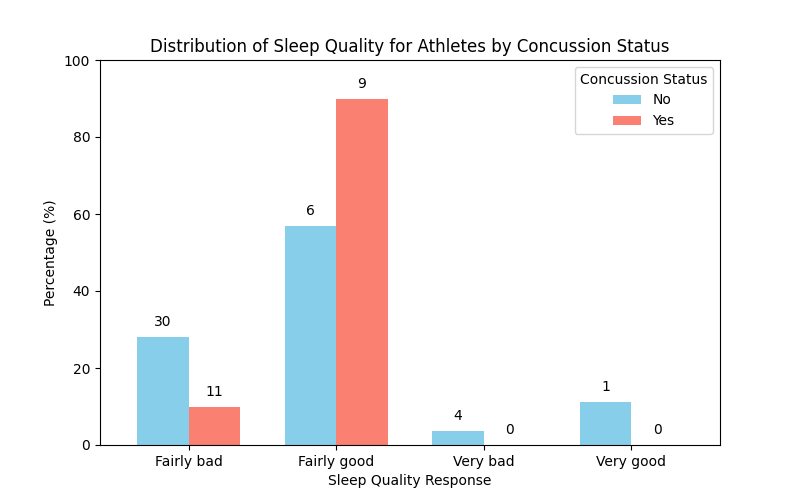
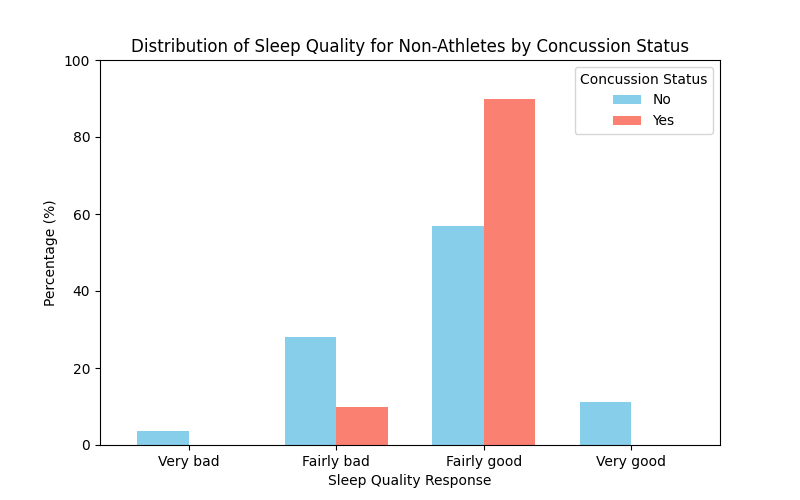
Updated preliminary visualizations for the paper

diff --git a/Visualizer.py b/Visualizer.py
@@ -157,35 +157,29 @@ def plot_avg_sleep_by_concussion_status(df):
 
 def plot_concentration_issues_general(df):
     """Plots percentage of concentration issues by concussion status with count labels."""
+    # Create a copy of the dataframe to avoid modifying the original
+    df_plot = df.copy()
+    
+    # Define the desired order
+    desired_order = ["Almost never", "Sometimes", "Often", "Always"]
+    
+    # Convert the Concentration_Issues column to a Categorical type with the specific order
+    df_plot['Concentration_Issues'] = pd.Categorical(
+        df_plot['Concentration_Issues'], 
+        categories=desired_order, 
+        ordered=True
+    )
+    
     # Compute actual counts
-    count_data = pd.crosstab(df['Concentration_Issues'], df['Concussion_Status'])
+    count_data = pd.crosstab(df_plot['Concentration_Issues'], df_plot['Concussion_Status'])
 
     # Ensure column order is No → Yes
     count_data = count_data[['No', 'Yes']]
 
-    # Compute the total number of respondents for No and Yes concussion groups
-    total_no = count_data['No'].sum()
-    total_yes = count_data['Yes'].sum()
-
     # Normalize to get percentages
     concentration_percentage = count_data.div(count_data.sum(axis=0), axis=1) * 100
 
-    ax = concentration_percentage.plot(kind='bar', figsize=(8, 5), color=['skyblue', 'salmon'], width=0.7)
-
-    # Adding actual raw count labels (calculated from percentages)
-    for i, p in enumerate(ax.patches):
-        col_idx = i % 2  # Alternates between No and Yes
-        row_idx = i // 2  # Each category (Concentration Issues)
-
-        # Determine the correct total population for this bar (No or Yes)
-        total_population = total_no if col_idx == 0 else total_yes
-
-        # Convert percentage to actual count
-        count_value = round((p.get_height() / 100) * total_population)
-
-        # Display the count
-        ax.annotate(f"{count_value}", (p.get_x() + p.get_width() / 2, p.get_height() + 2),
-                    ha='center', va='bottom', fontsize=10)
+    concentration_percentage.plot(kind='bar', figsize=(8, 5), color=['skyblue', 'salmon'], width=0.7)
 
     plt.title("Percentage of Concentration Issues by Concussion Status")
     plt.xlabel("Concentration Issues Response")
@@ -199,7 +193,20 @@ def plot_concentration_issues_general(df):
 
 def plot_concentration_issues_for_athletes(df):
     """Plots concentration issue percentages for athletes only, comparing those with and without a concussion."""
-    athletes_df = df[df['Sports_Status'].str.lower() == 'yes']
+    # Create a copy of the dataframe to avoid modifying the original
+    df_plot = df.copy()
+    
+    # Define the desired order
+    desired_order = ["Almost never", "Sometimes", "Often", "Always"]
+    
+    # Convert the Concentration_Issues column to a Categorical type with the specific order
+    df_plot['Concentration_Issues'] = pd.Categorical(
+        df_plot['Concentration_Issues'], 
+        categories=desired_order, 
+        ordered=True
+    )
+    
+    athletes_df = df_plot[df_plot['Sports_Status'].str.lower() == 'yes']
 
     # Compute actual counts
     count_data = pd.crosstab(athletes_df['Concentration_Issues'], athletes_df['Concussion_Status'])
@@ -207,29 +214,10 @@ def plot_concentration_issues_for_athletes(df):
     # Ensure column order is No → Yes
     count_data = count_data[['No', 'Yes']]
 
-    # Compute the total number of athletes for No and Yes concussion groups
-    total_no = count_data['No'].sum()
-    total_yes = count_data['Yes'].sum()
-
     # Normalize to get percentages
     concentration_percentage = count_data.div(count_data.sum(axis=0), axis=1) * 100
 
-    ax = concentration_percentage.plot(kind='bar', figsize=(8, 5), color=['skyblue', 'salmon'], width=0.7)
-
-    # Adding actual raw count labels (calculated from percentages)
-    for i, p in enumerate(ax.patches):
-        col_idx = i % 2  # Alternates between No and Yes
-        row_idx = i // 2  # Each category (Concentration Issues)
-
-        # Determine the correct total population for this bar (No or Yes)
-        total_population = total_no if col_idx == 0 else total_yes
-
-        # Convert percentage to actual count
-        count_value = round((p.get_height() / 100) * total_population)
-
-        # Display the count
-        ax.annotate(f"{count_value}", (p.get_x() + p.get_width() / 2, p.get_height() + 2),
-                    ha='center', va='bottom', fontsize=10)
+    concentration_percentage.plot(kind='bar', figsize=(8, 5), color=['skyblue', 'salmon'], width=0.7)
 
     plt.title("Concentration Issues for Athletes by Concussion Status")
     plt.xlabel("Concentration Issues Response")
@@ -243,7 +231,20 @@ def plot_concentration_issues_for_athletes(df):
 
 def plot_concentration_issues_for_non_athletes(df):
     """Plots concentration issue percentages for non-athletes only, comparing those with and without a concussion."""
-    non_athletes_df = df[df['Sports_Status'].str.lower() == 'no']
+    # Create a copy of the dataframe to avoid modifying the original
+    df_plot = df.copy()
+    
+    # Define the desired order
+    desired_order = ["Almost never", "Sometimes", "Often", "Always"]
+    
+    # Convert the Concentration_Issues column to a Categorical type with the specific order
+    df_plot['Concentration_Issues'] = pd.Categorical(
+        df_plot['Concentration_Issues'], 
+        categories=desired_order, 
+        ordered=True
+    )
+    
+    non_athletes_df = df_plot[df_plot['Sports_Status'].str.lower() == 'no']
 
     # Compute actual counts
     count_data = pd.crosstab(non_athletes_df['Concentration_Issues'], non_athletes_df['Concussion_Status'])
@@ -251,29 +252,10 @@ def plot_concentration_issues_for_non_athletes(df):
     # Ensure column order is No → Yes
     count_data = count_data[['No', 'Yes']]
 
-    # Compute the total number of non-athletes for No and Yes concussion groups
-    total_no = count_data['No'].sum()
-    total_yes = count_data['Yes'].sum()
-
     # Normalize to get percentages
     concentration_percentage = count_data.div(count_data.sum(axis=0), axis=1) * 100
 
-    ax = concentration_percentage.plot(kind='bar', figsize=(8, 5), color=['skyblue', 'salmon'], width=0.7)
-
-    # Adding actual raw count labels (calculated from percentages)
-    for i, p in enumerate(ax.patches):
-        col_idx = i % 2  # Alternates between No and Yes
-        row_idx = i // 2  # Each category (Concentration Issues)
-
-        # Determine the correct total population for this bar (No or Yes)
-        total_population = total_no if col_idx == 0 else total_yes
-
-        # Convert percentage to actual count
-        count_value = round((p.get_height() / 100) * total_population)
-
-        # Display the count
-        ax.annotate(f"{count_value}", (p.get_x() + p.get_width() / 2, p.get_height() + 2),
-                    ha='center', va='bottom', fontsize=10)
+    concentration_percentage.plot(kind='bar', figsize=(8, 5), color=['skyblue', 'salmon'], width=0.7)
 
     plt.title("Concentration Issues for Non-Athletes by Concussion Status")
     plt.xlabel("Concentration Issues Response")
@@ -293,19 +275,7 @@ def plot_motivation_issues_general(df):
     # Normalize to get percentages
     motivation_percentage = count_data.div(count_data.sum(axis=0), axis=1) * 100
     
-    ax = motivation_percentage.plot(kind='bar', figsize=(10, 5), color=['skyblue', 'salmon'], width=0.7)
-    
-    # Adding actual raw count labels
-    total_no = count_data['No'].sum()
-    total_yes = count_data['Yes'].sum()
-    
-    for i, p in enumerate(ax.patches):
-        col_idx = i % 2  # Alternates between No and Yes
-        row_idx = i // 2  # Each category (Motivation Issues)
-        total_population = total_no if col_idx == 0 else total_yes
-        count_value = round((p.get_height() / 100) * total_population)
-        ax.annotate(f"{count_value}", (p.get_x() + p.get_width() / 2, p.get_height() + 2),
-                    ha='center', va='bottom', fontsize=10)
+    motivation_percentage.plot(kind='bar', figsize=(10, 5), color=['skyblue', 'salmon'], width=0.7)
     
     plt.title("Distribution of Motivation Issues by Concussion Status")
     plt.xlabel("Motivation Issues Response")
@@ -327,19 +297,7 @@ def plot_motivation_issues_for_athletes(df):
     # Normalize to get percentages
     motivation_percentage = count_data.div(count_data.sum(axis=0), axis=1) * 100
     
-    ax = motivation_percentage.plot(kind='bar', figsize=(10, 5), color=['skyblue', 'salmon'], width=0.7)
-    
-    # Adding actual raw count labels
-    total_no = count_data['No'].sum()
-    total_yes = count_data['Yes'].sum()
-    
-    for i, p in enumerate(ax.patches):
-        col_idx = i % 2  # Alternates between No and Yes
-        row_idx = i // 2  # Each category (Motivation Issues)
-        total_population = total_no if col_idx == 0 else total_yes
-        count_value = round((p.get_height() / 100) * total_population)
-        ax.annotate(f"{count_value}", (p.get_x() + p.get_width() / 2, p.get_height() + 2),
-                    ha='center', va='bottom', fontsize=10)
+    motivation_percentage.plot(kind='bar', figsize=(10, 5), color=['skyblue', 'salmon'], width=0.7)
     
     plt.title("Distribution of Motivation Issues For Athletes by Concussion Status")
     plt.xlabel("Motivation Issues Response")
@@ -361,19 +319,7 @@ def plot_motivation_issues_for_non_athletes(df):
     # Normalize to get percentages
     motivation_percentage = count_data.div(count_data.sum(axis=0), axis=1) * 100
     
-    ax = motivation_percentage.plot(kind='bar', figsize=(10, 5), color=['skyblue', 'salmon'], width=0.7)
-    
-    # Adding actual raw count labels
-    total_no = count_data['No'].sum()
-    total_yes = count_data['Yes'].sum()
-    
-    for i, p in enumerate(ax.patches):
-        col_idx = i % 2  # Alternates between No and Yes
-        row_idx = i // 2  # Each category (Motivation Issues)
-        total_population = total_no if col_idx == 0 else total_yes
-        count_value = round((p.get_height() / 100) * total_population)
-        ax.annotate(f"{count_value}", (p.get_x() + p.get_width() / 2, p.get_height() + 2),
-                    ha='center', va='bottom', fontsize=10)
+    motivation_percentage.plot(kind='bar', figsize=(10, 5), color=['skyblue', 'salmon'], width=0.7)
     
     plt.title("Distribution of Motivation Issues for Non-Athletes by Concussion Status")
     plt.xlabel("Motivation Issues Response")
@@ -393,19 +339,7 @@ def plot_pain_issues_general(df):
     # Normalize to get percentages
     motivation_percentage = count_data.div(count_data.sum(axis=0), axis=1) * 100
     
-    ax = motivation_percentage.plot(kind='bar', figsize=(10, 5), color=['skyblue', 'salmon'], width=0.7)
-    
-    # Adding actual raw count labels
-    total_no = count_data['No'].sum()
-    total_yes = count_data['Yes'].sum()
-    
-    for i, p in enumerate(ax.patches):
-        col_idx = i % 2  # Alternates between No and Yes
-        row_idx = i // 2  # Each category (Motivation Issues)
-        total_population = total_no if col_idx == 0 else total_yes
-        count_value = round((p.get_height() / 100) * total_population)
-        ax.annotate(f"{count_value}", (p.get_x() + p.get_width() / 2, p.get_height() + 2),
-                    ha='center', va='bottom', fontsize=10)
+    motivation_percentage.plot(kind='bar', figsize=(10, 5), color=['skyblue', 'salmon'], width=0.7)
     
     plt.title("Distribution of Pain Issues by Concussion Status")
     plt.xlabel("Pain Issues Response")
@@ -427,19 +361,7 @@ def plot_pain_issues_for_athletes(df):
     # Normalize to get percentages
     motivation_percentage = count_data.div(count_data.sum(axis=0), axis=1) * 100
     
-    ax = motivation_percentage.plot(kind='bar', figsize=(10, 5), color=['skyblue', 'salmon'], width=0.7)
-    
-    # Adding actual raw count labels
-    total_no = count_data['No'].sum()
-    total_yes = count_data['Yes'].sum()
-    
-    for i, p in enumerate(ax.patches):
-        col_idx = i % 2  # Alternates between No and Yes
-        row_idx = i // 2  # Each category (Motivation Issues)
-        total_population = total_no if col_idx == 0 else total_yes
-        count_value = round((p.get_height() / 100) * total_population)
-        ax.annotate(f"{count_value}", (p.get_x() + p.get_width() / 2, p.get_height() + 2),
-                    ha='center', va='bottom', fontsize=10)
+    motivation_percentage.plot(kind='bar', figsize=(10, 5), color=['skyblue', 'salmon'], width=0.7)
     
     plt.title("Distribution of Pain Issues for Athletes by Concussion Status")
     plt.xlabel("Pain Issues Response")
@@ -461,19 +383,7 @@ def plot_pain_issues_for_non_athletes(df):
     # Normalize to get percentages
     motivation_percentage = count_data.div(count_data.sum(axis=0), axis=1) * 100
     
-    ax = motivation_percentage.plot(kind='bar', figsize=(10, 5), color=['skyblue', 'salmon'], width=0.7)
-    
-    # Adding actual raw count labels
-    total_no = count_data['No'].sum()
-    total_yes = count_data['Yes'].sum()
-    
-    for i, p in enumerate(ax.patches):
-        col_idx = i % 2  # Alternates between No and Yes
-        row_idx = i // 2  # Each category (Motivation Issues)
-        total_population = total_no if col_idx == 0 else total_yes
-        count_value = round((p.get_height() / 100) * total_population)
-        ax.annotate(f"{count_value}", (p.get_x() + p.get_width() / 2, p.get_height() + 2),
-                    ha='center', va='bottom', fontsize=10)
+    motivation_percentage.plot(kind='bar', figsize=(10, 5), color=['skyblue', 'salmon'], width=0.7)
     
     plt.title("Distribution of Pain Issues for Non-Athletes by Concussion Status")
     plt.xlabel("Pain Issues Response")
@@ -493,19 +403,18 @@ def plot_sleep_quality_general(df):
     # Normalize to get percentages
     motivation_percentage = count_data.div(count_data.sum(axis=0), axis=1) * 100
     
-    ax = motivation_percentage.plot(kind='bar', figsize=(8, 5), color=['skyblue', 'salmon'], width=0.7)
+    # Create a mapping for better labels
+    sleep_quality_labels = {
+        0.0: "Very bad", 
+        1.0: "Fairly bad", 
+        2.0: "Fairly good", 
+        3.0: "Very good"
+    }
     
-    # Adding actual raw count labels
-    total_no = count_data['No'].sum()
-    total_yes = count_data['Yes'].sum()
+    # Rename the index with descriptive labels
+    motivation_percentage.index = motivation_percentage.index.map(sleep_quality_labels)
     
-    for i, p in enumerate(ax.patches):
-        col_idx = i % 2  # Alternates between No and Yes
-        row_idx = i // 2  # Each category (Motivation Issues)
-        total_population = total_no if col_idx == 0 else total_yes
-        count_value = round((p.get_height() / 100) * total_population)
-        ax.annotate(f"{count_value}", (p.get_x() + p.get_width() / 2, p.get_height() + 2),
-                    ha='center', va='bottom', fontsize=10)
+    motivation_percentage.plot(kind='bar', figsize=(8, 5), color=['skyblue', 'salmon'], width=0.7)
     
     plt.title("Distribution of Sleep Quality by Concussion Status")
     plt.xlabel("Sleep Quality Response")
@@ -526,20 +435,19 @@ def plot_sleep_quality_for_athletes(df):
     
     # Normalize to get percentages
     motivation_percentage = count_data.div(count_data.sum(axis=0), axis=1) * 100
+
+    # Create a mapping for better labels
+    sleep_quality_labels = {
+        0.0: "Very bad", 
+        1.0: "Fairly bad", 
+        2.0: "Fairly good", 
+        3.0: "Very good"
+    }
     
-    ax = motivation_percentage.plot(kind='bar', figsize=(8, 5), color=['skyblue', 'salmon'], width=0.7)
+    # Rename the index with descriptive labels
+    motivation_percentage.index = motivation_percentage.index.map(sleep_quality_labels)
     
-    # Adding actual raw count labels
-    total_no = count_data['No'].sum()
-    total_yes = count_data['Yes'].sum()
-    
-    for i, p in enumerate(ax.patches):
-        col_idx = i % 2  # Alternates between No and Yes
-        row_idx = i // 2  # Each category (Motivation Issues)
-        total_population = total_no if col_idx == 0 else total_yes
-        count_value = round((p.get_height() / 100) * total_population)
-        ax.annotate(f"{count_value}", (p.get_x() + p.get_width() / 2, p.get_height() + 2),
-                    ha='center', va='bottom', fontsize=10)
+    motivation_percentage.plot(kind='bar', figsize=(8, 5), color=['skyblue', 'salmon'], width=0.7)
     
     plt.title("Distribution of Sleep Quality for Athletes by Concussion Status")
     plt.xlabel("Sleep Quality Response")
@@ -560,22 +468,21 @@ def plot_sleep_quality_for_non_athletes(df):
     
     # Normalize to get percentages
     motivation_percentage = count_data.div(count_data.sum(axis=0), axis=1) * 100
+
+    # Create a mapping for better labels
+    sleep_quality_labels = {
+        0.0: "Very bad", 
+        1.0: "Fairly bad", 
+        2.0: "Fairly good", 
+        3.0: "Very good"
+    }
     
-    ax = motivation_percentage.plot(kind='bar', figsize=(8, 5), color=['skyblue', 'salmon'], width=0.7)
+    # Rename the index with descriptive labels
+    motivation_percentage.index = motivation_percentage.index.map(sleep_quality_labels)
     
-    # Adding actual raw count labels
-    total_no = count_data['No'].sum()
-    total_yes = count_data['Yes'].sum()
+    motivation_percentage.plot(kind='bar', figsize=(8, 5), color=['skyblue', 'salmon'], width=0.7)
     
-    for i, p in enumerate(ax.patches):
-        col_idx = i % 2  # Alternates between No and Yes
-        row_idx = i // 2  # Each category (Motivation Issues)
-        total_population = total_no if col_idx == 0 else total_yes
-        count_value = round((p.get_height() / 100) * total_population)
-        ax.annotate(f"{count_value}", (p.get_x() + p.get_width() / 2, p.get_height() + 2),
-                    ha='center', va='bottom', fontsize=10)
-    
-    plt.title("Distribution of Sleep Quality for Athletes by Concussion Status")
+    plt.title("Distribution of Sleep Quality for Non-Athletes by Concussion Status")
     plt.xlabel("Sleep Quality Response")
     plt.ylabel("Percentage (%)")
     plt.xticks(rotation=0)
